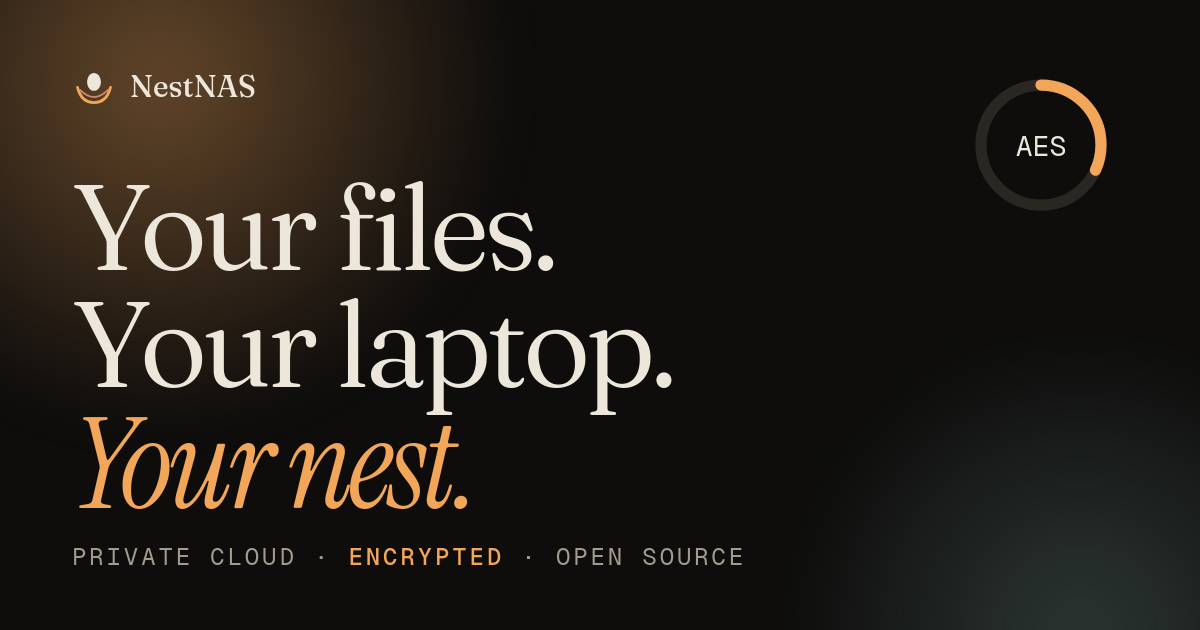
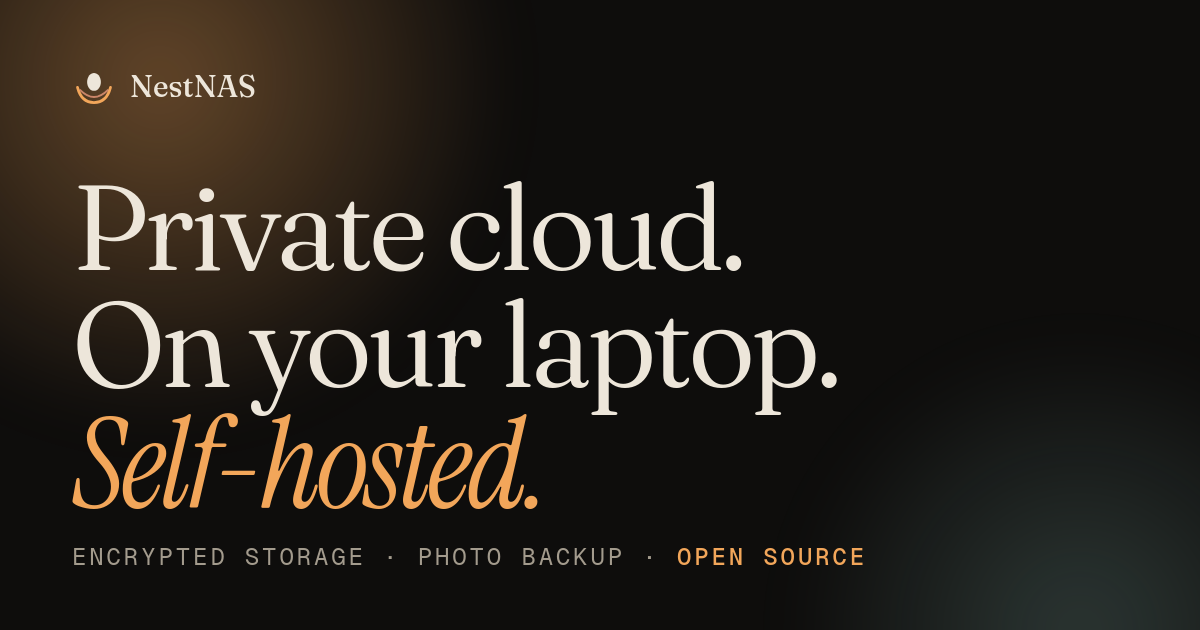
site: plain product wording, remove playful copy and decorative symbols
Rewrites the headline, feature, security, install and limitations text in a
neutral, factual tone; renames the "Receipts" and "fine print" sections to
"Metrics" and "Limitations"; replaces the emoji and ornaments with plain
glyphs; and regenerates the social preview image to match.

Changed region(s): [[0.0617, 0.2714, 0.7092, 0.8143], [0.0617, 0.8444, 0.74, 0.9048], [0.8017, 0.1206, 0.925, 0.3317]]

diff --git a/site/index.html b/site/index.html
@@ -3,13 +3,13 @@
 <head>
 <meta charset="utf-8">
 <meta name="viewport" content="width=device-width, initial-scale=1, viewport-fit=cover">
-<title>NestNAS: your own private cloud, on your own laptop</title>
-<meta name="description" content="NestNAS turns any laptop into a private cloud: encrypted storage, phone photo backup, a built-in network drive and a gallery. Open source, one program, zero dependencies.">
+<title>NestNAS: private cloud storage on your own hardware</title>
+<meta name="description" content="NestNAS turns a laptop into private cloud storage with encrypted files, phone photo backup, a network drive and a photo gallery. Open source, one program, no dependencies.">
 <meta name="theme-color" content="#0e0d0c">
 <link rel="canonical" href="https://nestnas.vercel.app/">
 <meta property="og:type" content="website">
-<meta property="og:title" content="NestNAS: your own private cloud, on your own laptop">
-<meta property="og:description" content="Encrypted storage, phone photo backup, a network drive and a gallery. Open source. One program. Zero dependencies.">
+<meta property="og:title" content="NestNAS: private cloud storage on your own hardware">
+<meta property="og:description" content="Encrypted storage, phone photo backup, a network drive and a photo gallery. Open source, one program, no dependencies.">
 <meta property="og:image" content="https://nestnas.vercel.app/og.png">
 <meta name="twitter:card" content="summary_large_image">
 <link rel="icon" href="/favicon.svg" type="image/svg+xml">
@@ -40,9 +40,9 @@
     <path class="arc a2" d="M12 38c8 8 16 10 20 10s12-2 20-10" fill="none" stroke="#e8987a" stroke-width="3" stroke-linecap="round" pathLength="1"/>
     <path class="arc a3" d="M16 30c6 10 12 12 16 12s10-2 16-12" fill="none" stroke="#cfe0b4" stroke-width="2.5" stroke-linecap="round" pathLength="1"/>
   </svg>
-  <div class="splash-line mono"><span>Building the nest</span><b id="splash-pct">0</b><span>%</span></div>
+  <div class="splash-line mono"><span>Loading</span><b id="splash-pct">0</b><span>%</span></div>
   <div class="splash-bar"><i id="splash-fill"></i></div>
-  <button class="splash-skip mono" id="splash-skip" type="button">tap to skip</button>
+  <button class="splash-skip mono" id="splash-skip" type="button">skip</button>
 </div>
 
 <div class="cursor" id="cursor" aria-hidden="true"><i></i><b></b></div>
@@ -54,8 +54,8 @@
   </a>
   <nav class="links mono" aria-label="Sections">
     <a href="#features"><i>01</i> Features</a>
-    <a href="#trust"><i>02</i> Trust</a>
-    <a href="#receipts"><i>03</i> Receipts</a>
+    <a href="#trust"><i>02</i> Security</a>
+    <a href="#receipts"><i>03</i> Metrics</a>
     <a href="#start"><i>04</i> Start</a>
   </nav>
   <div class="nav-r">
@@ -73,17 +73,17 @@
 <section class="hero">
   <p class="eyebrow mono" data-reveal><span class="pulse"></span> ( 00 ) Open source · MIT · pre-1.0</p>
   <h1 class="display">
-    <span class="line"><span>Your files.</span></span>
-    <span class="line"><span>Your laptop.</span></span>
-    <span class="line"><span><em>Your nest.</em></span></span>
+    <span class="line"><span>Private cloud.</span></span>
+    <span class="line"><span>On your laptop.</span></span>
+    <span class="line"><span><em>Self-hosted.</em></span></span>
   </h1>
   <div class="hero-sub">
-    <p data-reveal>NestNAS turns any laptop into a <strong>private cloud</strong>: photo backup from your phone, an encrypted network drive, a gallery, share links. One small program. Nothing leaves your home unless you say so.</p>
+    <p data-reveal>NestNAS turns a laptop into <strong>private cloud storage</strong>: phone photo backup, an encrypted network drive, a photo gallery and share links. One program, no subscription, and your data stays on your hardware.</p>
     <div class="cta" data-reveal>
-      <a class="btn primary" href="#start" data-magnetic><span>Hatch your own</span><svg viewBox="0 0 20 20" aria-hidden="true"><path d="M4 10h11M11 5l5 5-5 5" fill="none" stroke="currentColor" stroke-width="1.8" stroke-linecap="round" stroke-linejoin="round"/></svg></a>
-      <a class="btn ghost" href="#features" data-magnetic><span>See what it does</span></a>
+      <a class="btn primary" href="#start" data-magnetic><span>Get started</span><svg viewBox="0 0 20 20" aria-hidden="true"><path d="M4 10h11M11 5l5 5-5 5" fill="none" stroke="currentColor" stroke-width="1.8" stroke-linecap="round" stroke-linejoin="round"/></svg></a>
+      <a class="btn ghost" href="#features" data-magnetic><span>View features</span></a>
     </div>
-    <p class="micro mono" data-reveal>free forever · Go standard library only · Linux · Windows · macOS</p>
+    <p class="micro mono" data-reveal>Free and open source · Go standard library only · Linux · Windows · macOS</p>
   </div>
 
   <!-- the signature scene: phone -> your Wi-Fi -> the nest -->
@@ -119,7 +119,7 @@
         <span class="url mono"><svg viewBox="0 0 12 12" aria-hidden="true"><rect x="2" y="5.2" width="8" height="5.6" rx="1.2" fill="currentColor"/><path d="M4 5.2V4a2 2 0 014 0v1.2" fill="none" stroke="currentColor" stroke-width="1.2"/></svg> https://nest.local:8443</span>
       </div>
       <div class="lp-body">
-        <aside class="lp-side mono"><b>🪺</b><span class="on">Files</span><span>Backup</span><span>Trash</span><span>More</span></aside>
+        <aside class="lp-side mono"><b><svg viewBox="0 0 64 64" aria-hidden="true" style="width:22px;height:22px"><ellipse cx="32" cy="26" rx="10" ry="13" fill="#ede6da"/><path d="M8 34c4 16 14 22 24 22s20-6 24-22" fill="none" stroke="#f2a65a" stroke-width="4" stroke-linecap="round"/></svg></b><span class="on">Files</span><span>Backup</span><span>Trash</span><span>More</span></aside>
         <div class="lp-main">
           <div class="lp-cards">
             <div class="lp-card ring-card">
@@ -147,24 +147,24 @@
 <!-- ticker -->
 <div class="ticker mono" aria-hidden="true">
   <div class="track">
-    <span>AES-256-GCM</span><i>✦</i><span>TLS 1.3 only</span><i>✦</i><span>scrypt-wrapped keys</span><i>✦</i><span>zero dependencies</span><i>✦</i><span>WebDAV drive</span><i>✦</i><span>external drives, hot-swap safe</span><i>✦</i><span>photo gallery</span><i>✦</i><span>one binary</span><i>✦</i><span>tamper-evident files</span><i>✦</i>
-    <span>AES-256-GCM</span><i>✦</i><span>TLS 1.3 only</span><i>✦</i><span>scrypt-wrapped keys</span><i>✦</i><span>zero dependencies</span><i>✦</i><span>WebDAV drive</span><i>✦</i><span>external drives, hot-swap safe</span><i>✦</i><span>photo gallery</span><i>✦</i><span>one binary</span><i>✦</i><span>tamper-evident files</span><i>✦</i>
+    <span>AES-256-GCM</span><i>/</i><span>TLS 1.3 only</span><i>/</i><span>scrypt-wrapped keys</span><i>/</i><span>zero dependencies</span><i>/</i><span>WebDAV drive</span><i>/</i><span>external drives, hot-swap safe</span><i>/</i><span>photo gallery</span><i>/</i><span>one binary</span><i>/</i><span>tamper-evident files</span><i>/</i>
+    <span>AES-256-GCM</span><i>/</i><span>TLS 1.3 only</span><i>/</i><span>scrypt-wrapped keys</span><i>/</i><span>zero dependencies</span><i>/</i><span>WebDAV drive</span><i>/</i><span>external drives, hot-swap safe</span><i>/</i><span>photo gallery</span><i>/</i><span>one binary</span><i>/</i><span>tamper-evident files</span><i>/</i>
   </div>
 </div>
 
 <!-- ============ FEATURES ============ -->
 <section class="sec" id="features">
   <header class="sec-h">
-    <p class="eyebrow mono" data-reveal>( 01 ) What it does</p>
-    <h2 class="display md" data-reveal>Everything you wish your <em>cloud plan</em> did.</h2>
-    <p class="lede" data-reveal>A full-sized storage plan costs money every month, forever. A laptop and a spare drive cost nothing more. NestNAS is the missing part: the software that makes them behave like the cloud.</p>
+    <p class="eyebrow mono" data-reveal>( 01 ) Features</p>
+    <h2 class="display md" data-reveal>The parts of a cloud plan <em>you actually use.</em></h2>
+    <p class="lede" data-reveal>Cloud storage plans charge every month. NestNAS provides the same core features on a laptop and a drive you already own.</p>
   </header>
 
   <div class="bento">
     <article class="cell c7" data-reveal>
       <div class="tag mono">Phone backup</div>
-      <h3>One tap to empty your phone's worry.</h3>
-      <p>Pick photos and videos (or a whole folder) and NestNAS copies only what it doesn't have yet. Same file twice? Skipped. Same name, different photo? Both kept. It never overwrites and never deletes.</p>
+      <h3>Back up photos and videos from your phone.</h3>
+      <p>Select photos and videos, or a whole folder, and NestNAS copies only what the NAS does not already have. Duplicates are skipped, files with the same name are both kept, and nothing is overwritten or deleted.</p>
       <div class="viz backup-viz" id="backup-viz">
         <div class="bv-row mono"><span>Phone Backup / 2025 / 11</span><span id="bv-num">0 new · 0 already there</span></div>
         <div class="bv-rail"><i id="bv-fill"></i></div>
@@ -174,20 +174,20 @@
 
     <article class="cell c5 tall" data-reveal>
       <div class="tag mono">Encrypted at rest</div>
-      <h3>Scrambled before it touches the disk.</h3>
-      <p>Every file gets its own key. Lose the laptop or the drive and what's on it is noise.</p>
+      <h3>Encrypted before it is written to disk.</h3>
+      <p>Each file has its own key. If the laptop or drive is lost, the contents are unreadable.</p>
       <div class="viz cipher-viz" id="cipher">
         <div class="cv-file mono"><span class="dot"></span>holiday-goa.jpg</div>
         <pre class="cv-body mono" id="cipher-text" aria-live="off">FF D8 FF E0 00 10 4A 46 49 46 00 01 01 00 00 01
 00 01 00 00 FF DB 00 43 00 08 06 06 07 06 05 08</pre>
-        <div class="cv-state mono"><button type="button" id="cipher-btn" aria-pressed="false"><span class="sw"></span><span id="cipher-label">readable on your laptop</span></button></div>
+        <div class="cv-state mono"><button type="button" id="cipher-btn" aria-pressed="false"><span class="sw"></span><span id="cipher-label">plaintext (as used by you)</span></button></div>
       </div>
       <p class="fine mono">AES-256-GCM · 64 KiB authenticated chunks · scrypt</p>
     </article>
 
     <article class="cell c5" data-reveal>
       <div class="tag mono">Gallery &amp; viewer</div>
-      <h3>Your photos, in your own gallery.</h3>
+      <h3>Photo gallery and viewer.</h3>
       <p>Thumbnails, a full-screen viewer, swipe, video seeking. Decrypted on the fly, never cached.</p>
       <div class="viz gallery-viz" aria-hidden="true">
         <i class="g1"></i><i class="g2"></i><i class="g3"></i><i class="g4"></i><i class="g5"></i><i class="g6"></i>
@@ -196,8 +196,8 @@
 
     <article class="cell c7" data-reveal>
       <div class="tag mono">External drives</div>
-      <h3>Pull the plug. Plug it back. It just continues.</h3>
-      <p>Use a USB or external drive as storage. Unplug it any time: NestNAS pauses, warns you, and never quietly fills your laptop's own disk. Plug it in again, even somewhere else, and it carries on by itself.</p>
+      <h3>Removable drives are handled safely.</h3>
+      <p>Use a USB or external drive as storage. If it is unplugged, NestNAS pauses, shows a warning and never writes to the laptop's internal disk instead. When the drive returns, even at a different mount point, it resumes automatically.</p>
       <div class="viz drive-viz" aria-hidden="true">
         <div class="dv-top">
           <div class="dv-drive"><span class="lid"></span><span class="led"></span></div>
@@ -214,15 +214,15 @@
 
     <article class="cell c4" data-reveal>
       <div class="tag mono">Network drive</div>
-      <h3>Mount it like a USB stick.</h3>
-      <p>Built-in WebDAV for Mac, Windows and Linux. Same login, same privacy.</p>
+      <h3>Mount it as a network drive.</h3>
+      <p>Built-in WebDAV for macOS, Windows and Linux, using the same login.</p>
       <div class="viz url-viz mono"><span>https://</span><b>nest.local:8443</b><span>/dav/</span></div>
     </article>
 
     <article class="cell c4" data-reveal>
-      <div class="tag mono">Share &amp; undo</div>
-      <h3>Links that expire. Trash that forgives.</h3>
-      <p>Public links with a timer. Deleted something? It waits in the trash for 30 days.</p>
+      <div class="tag mono">Sharing and trash</div>
+      <h3>Expiring links and a trash folder.</h3>
+      <p>Share files with links that expire. Deleted items stay in the trash for 30 days.</p>
       <div class="viz mini-viz">
         <div class="pill mono"><span>/s/9f3c…e1</span><em>expires in 24 h</em></div>
         <div class="pill undo mono"><span>wedding-draft.docx</span><em>↩ restore</em></div>
@@ -230,9 +230,9 @@
     </article>
 
     <article class="cell c4" data-reveal>
-      <div class="tag mono">Everyone gets a room</div>
-      <h3>Family, roommates, your future self.</h3>
-      <p>Private folders and their own space limit for each person. Nobody sees anyone else's.</p>
+      <div class="tag mono">Multiple users</div>
+      <h3>Separate folders and quotas.</h3>
+      <p>Each user has a private folder and their own storage limit.</p>
       <div class="viz users-viz" aria-hidden="true">
         <div class="u"><b style="--c:#f2a65a">A</b><div class="q"><i style="width:72%"></i></div></div>
         <div class="u"><b style="--c:#a8e0d6">M</b><div class="q"><i style="width:34%"></i></div></div>
@@ -245,16 +245,16 @@
 <!-- ============ TRUST ============ -->
 <section class="sec" id="trust">
   <header class="sec-h">
-    <p class="eyebrow mono" data-reveal>( 02 ) Why you can trust it</p>
-    <h2 class="display md" data-reveal>Built like it holds your life. <em>Because it does.</em></h2>
+    <p class="eyebrow mono" data-reveal>( 02 ) Security</p>
+    <h2 class="display md" data-reveal>Security <em>design.</em></h2>
   </header>
 
   <div class="trust-grid">
     <div class="trust-l">
       <ol class="principles">
-        <li data-reveal><span class="n mono">i.</span><div><h3>Nothing to trust but one program.</h3><p>Written in Go using only its standard library. No hidden packages, no supply chain, nothing phoning home. You can read all of it in an afternoon.</p></div></li>
-        <li data-reveal><span class="n mono">ii.</span><div><h3>Encrypted twice.</h3><p>On the wire: TLS 1.3 only, with a private certificate authority that is <em>locked to your home network's addresses</em>. On the disk: AES-256-GCM, with keys wrapped by your passphrase using memory-hard scrypt, plus a one-time recovery key.</p></div></li>
-        <li data-reveal><span class="n mono">iii.</span><div><h3>It tells you where it's weak.</h3><p>Names and dates aren't hidden, only contents. The file format is new and hasn't had an outside audit yet. We'd rather say so than have you find out.</p></div></li>
+        <li data-reveal><span class="n mono">i.</span><div><h3>One program, no dependencies.</h3><p>Written in Go using only the standard library, so there are no third-party packages to audit and nothing contacts external services. The full source is available to read.</p></div></li>
+        <li data-reveal><span class="n mono">ii.</span><div><h3>Encrypted in transit and at rest.</h3><p>In transit: TLS 1.3 only, using a private certificate authority <em>restricted to private network addresses</em>. At rest: AES-256-GCM, with keys protected by your passphrase (memory-hard scrypt) and a recovery key.</p></div></li>
+        <li data-reveal><span class="n mono">iii.</span><div><h3>Documented limitations.</h3><p>File names, sizes and dates are not encrypted; only contents are. The file format is new and has not been independently audited.</p></div></li>
       </ol>
     </div>
 
@@ -281,8 +281,8 @@
 <!-- ============ RECEIPTS ============ -->
 <section class="sec" id="receipts">
   <header class="sec-h">
-    <p class="eyebrow mono" data-reveal>( 03 ) Receipts</p>
-    <h2 class="display md" data-reveal>Numbers, not <em>adjectives.</em></h2>
+    <p class="eyebrow mono" data-reveal>( 03 ) Metrics</p>
+    <h2 class="display md" data-reveal>Project <em>metrics.</em></h2>
   </header>
   <div class="stats">
     <div class="stat" data-reveal><b data-count="5125" data-format="comma">0</b><span class="mono">lines of Go in the whole server</span></div>
@@ -297,13 +297,13 @@
 <section class="sec" id="start">
   <header class="sec-h">
     <p class="eyebrow mono" data-reveal>( 04 ) Get started</p>
-    <h2 class="display md" data-reveal>Three steps. <em>Ten minutes.</em></h2>
+    <h2 class="display md" data-reveal>Install in <em>three steps.</em></h2>
   </header>
 
   <div class="steps">
     <div class="step" data-reveal>
       <span class="sn mono">01</span>
-      <h3>Build it</h3>
+      <h3>Build</h3>
       <p>You need Go 1.18 or newer. Packaged installers arrive with the first release.</p>
       <div class="term" id="term">
         <div class="term-h mono"><i></i><i></i><i></i><span>terminal</span><button type="button" id="copy" class="copy mono">copy</button></div>
@@ -316,13 +316,13 @@
     </div>
     <div class="step" data-reveal>
       <span class="sn mono">02</span>
-      <h3>Open it &amp; choose</h3>
-      <p>Visit <code class="mono">localhost:8080</code>. Pick how many GB to lend, where files live (an external drive works), and whether to encrypt. Save the recovery key somewhere safe.</p>
+      <h3>Configure</h3>
+      <p>Open <code class="mono">localhost:8080</code> and choose the storage allowance, the storage location (an external drive works) and whether to encrypt. Store the recovery key somewhere safe.</p>
     </div>
     <div class="step" data-reveal>
       <span class="sn mono">03</span>
-      <h3>Add your phone</h3>
-      <p>On the same Wi-Fi, open the setup page it shows you, install the one certificate, then <em>Add to Home Screen</em>. Hit <b>Backup</b>. Done.</p>
+      <h3>Add a device</h3>
+      <p>On the same network, open the device setup page shown in the dashboard, install the certificate, add the dashboard to your home screen, and use the <b>Backup</b> tab.</p>
     </div>
   </div>
 </section>
@@ -330,15 +330,15 @@
 <!-- ============ FINE PRINT ============ -->
 <section class="sec fine-sec" id="fine">
   <header class="sec-h">
-    <p class="eyebrow mono" data-reveal>( 05 ) The fine print</p>
-    <h2 class="display sm" data-reveal>Honest about the edges.</h2>
+    <p class="eyebrow mono" data-reveal>( 05 ) Limitations</p>
+    <h2 class="display sm" data-reveal>Known limitations.</h2>
   </header>
   <ul class="fine-list" data-reveal>
-    <li><b>Early software.</b> It works end to end and is well tested, but it's pre-1.0. Don't make it your only copy of anything irreplaceable.</li>
-    <li><b>Not audited.</b> The encryption uses standard building blocks, but the file format is new and hasn't had an independent review.</li>
-    <li><b>Developed on Linux.</b> Windows and macOS builds compile and share the logic, but haven't been run for real yet.</li>
-    <li><b>iPhone limits.</b> Safari can't back up in the background, so keep the page open while it uploads. Apple's Files app can't mount a network drive like this; use the web app.</li>
-    <li><b>Forgot your passphrase?</b> And lost the recovery key? Then your files are gone. That's the point of encryption.</li>
+    <li><b>Pre-1.0 software.</b> It is tested end to end, but it should not be the only copy of irreplaceable data.</li>
+    <li><b>Not audited.</b> The encryption uses standard primitives, but the file format is new and has not been independently reviewed.</li>
+    <li><b>Developed on Linux.</b> Windows and macOS builds compile and share the same code, but have not yet been tested on real systems.</li>
+    <li><b>iOS limitations.</b> Safari cannot upload in the background, so the page must stay open during a backup. The iOS Files app cannot mount WebDAV drives; use the web app instead.</li>
+    <li><b>Lost passphrase.</b> If both the passphrase and the recovery key are lost, the encrypted files cannot be recovered.</li>
   </ul>
 </section>
 
@@ -346,13 +346,13 @@
 
 <footer class="foot">
   <div class="foot-cta" data-reveal>
-    <h2 class="display md">Go on. <em>Hatch one.</em></h2>
+    <h2 class="display md">Get <em>NestNAS.</em></h2>
     <a class="btn primary" href="https://github.com/Saransh-Jainbu/nestnas" target="_blank" rel="noopener" data-magnetic><span>Get it on GitHub</span><svg viewBox="0 0 20 20" aria-hidden="true"><path d="M4 10h11M11 5l5 5-5 5" fill="none" stroke="currentColor" stroke-width="1.8" stroke-linecap="round" stroke-linejoin="round"/></svg></a>
   </div>
   <div class="wordmark" aria-hidden="true">NestNAS</div>
   <div class="foot-row mono">
     <span>MIT licensed · open source</span>
-    <span>Made by <a href="https://www.saranshjain.dev/" target="_blank" rel="noopener">Saransh Jain</a></span>
+    <span>Author: <a href="https://www.saranshjain.dev/" target="_blank" rel="noopener">Saransh Jain</a></span>
     <span><a href="https://github.com/Saransh-Jainbu/nestnas#readme" target="_blank" rel="noopener">README</a> · <a href="https://github.com/Saransh-Jainbu/nestnas/blob/main/SECURITY.md" target="_blank" rel="noopener">Security</a> · <a href="https://github.com/Saransh-Jainbu/nestnas/blob/main/LICENSE" target="_blank" rel="noopener">License</a></span>
   </div>
 </footer>

diff --git a/site/app.js b/site/app.js
@@ -164,7 +164,7 @@
     function set(l) {
       if (busy) return; locked = l;
       host.classList.toggle("locked", l); btn.setAttribute("aria-pressed", l);
-      label.textContent = l ? "what a thief sees" : "readable on your laptop";
+      label.textContent = l ? "ciphertext (as stored on disk)" : "plaintext (as used by you)";
       scramble(l ? cipher : plain);
     }
     btn.addEventListener("click", function () { user = true; set(!locked); });
@@ -176,7 +176,7 @@
   function setupCopy() {
     var b = $("#copy"); if (!b) return;
     var cmd = "git clone https://github.com/Saransh-Jainbu/nestnas.git\ncd nestnas && make build\n./nestnas service install";
-    b.addEventListener("click", function () { copyText(cmd, function () { b.textContent = "copied ✓"; setTimeout(function () { b.textContent = "copy"; }, 1800); }); });
+    b.addEventListener("click", function () { copyText(cmd, function () { b.textContent = "copied"; setTimeout(function () { b.textContent = "copy"; }, 1800); }); });
   }
   function copyText(t, ok) {
     if (navigator.clipboard) navigator.clipboard.writeText(t).then(ok, function () {});
@@ -187,13 +187,13 @@
   function setupPalette() {
     var pal = $("#palette"), input = $("#pal-input"), list = $("#pal-list"), sel = 0, shown = [];
     var items = [
-      { t: "Features", s: "what it does", go: "#features" }, { t: "Trust", s: "how it's protected", go: "#trust" },
-      { t: "Receipts", s: "the numbers", go: "#receipts" }, { t: "Get started", s: "build & run", go: "#start" },
-      { t: "The fine print", s: "honest limits", go: "#fine" },
+      { t: "Features", s: "what it does", go: "#features" }, { t: "Security", s: "how it is protected", go: "#trust" },
+      { t: "Metrics", s: "project numbers", go: "#receipts" }, { t: "Get started", s: "build & run", go: "#start" },
+      { t: "Limitations", s: "known limitations", go: "#fine" },
       { t: "Open the GitHub repo", s: "↗", url: "https://github.com/Saransh-Jainbu/nestnas" },
       { t: "Read the security model", s: "↗", url: "https://github.com/Saransh-Jainbu/nestnas/blob/main/SECURITY.md" },
       { t: "Copy the install commands", s: "clipboard", copy: true },
-      { t: "Meet the maker", s: "↗ saranshjain.dev", url: "https://www.saranshjain.dev/" }
+      { t: "About the author", s: "↗ saranshjain.dev", url: "https://www.saranshjain.dev/" }
     ];
     function render() {
       var q = input.value.trim().toLowerCase();
